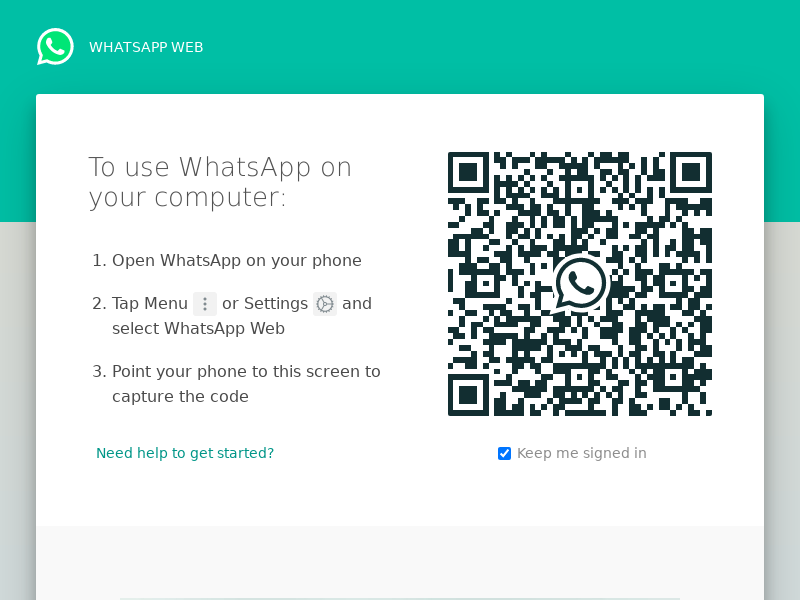
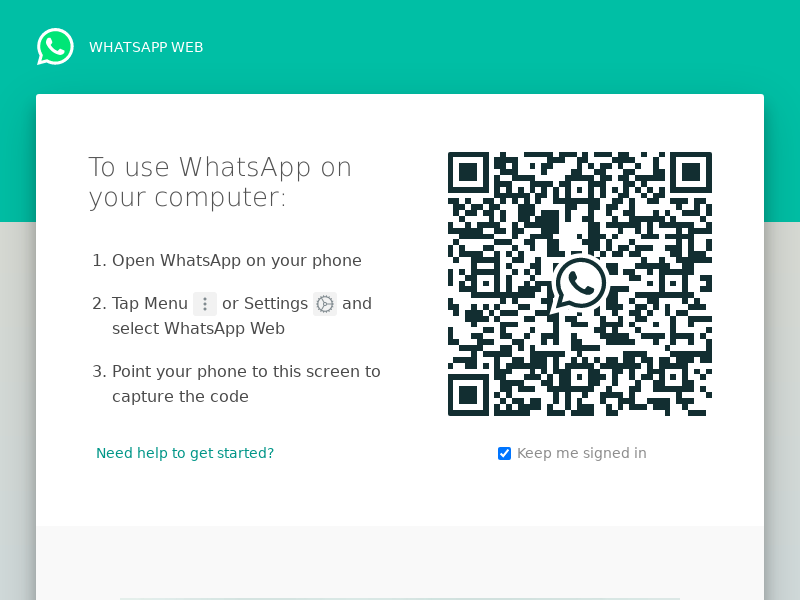
🌘💕 Checkpoint ./example.js:23794624/311

Changed region(s): [[0.5625, 0.24, 0.9062, 0.69]]

diff --git a/example.js b/example.js
@@ -16,6 +16,7 @@ const io = require("socket.io")(http, {log:false, origins:'*:*'});
 const bodyParser = require("body-parser");
 const SESSION_FILE_PATH = "./session.json";
 const path = require("path");
+const qrcode = require('qrcode');
 const events = (require("events").EventEmitter.defaultMaxListeners = 1000);
 let sessionCfg;
 if (fs.existsSync(SESSION_FILE_PATH)) {
@@ -64,7 +65,10 @@ client.on("qr", qr => {
   console.log("QR RECEIVED", qr);
   qrCode = qr;
   client.pupPage.screenshot({ path: __dirname + "/public/qr.png" });
-  io.emit("qr", qr);
+      qrcode.toDataURL(qr, (err, url) => {
+      io.emit('qr', url);
+    });
+  
 });
 
 client.on("authenticated", session => {
